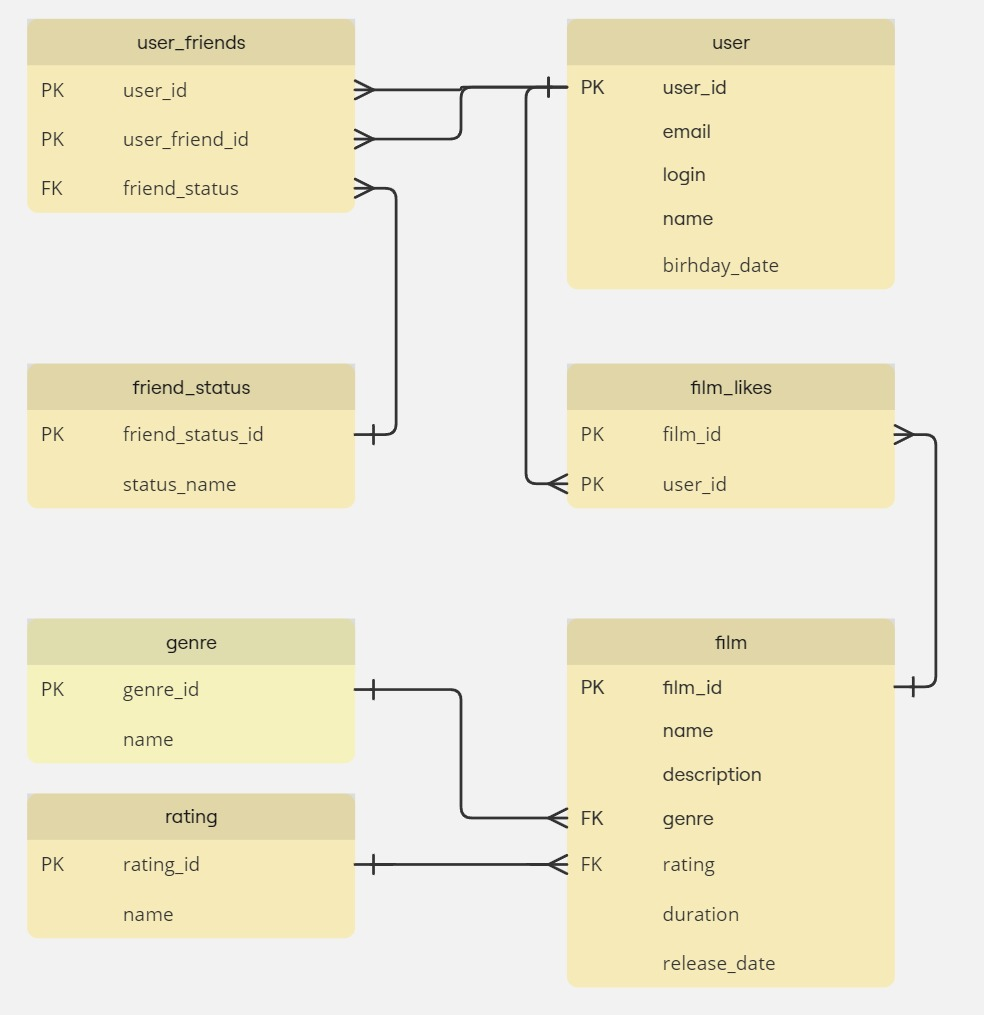
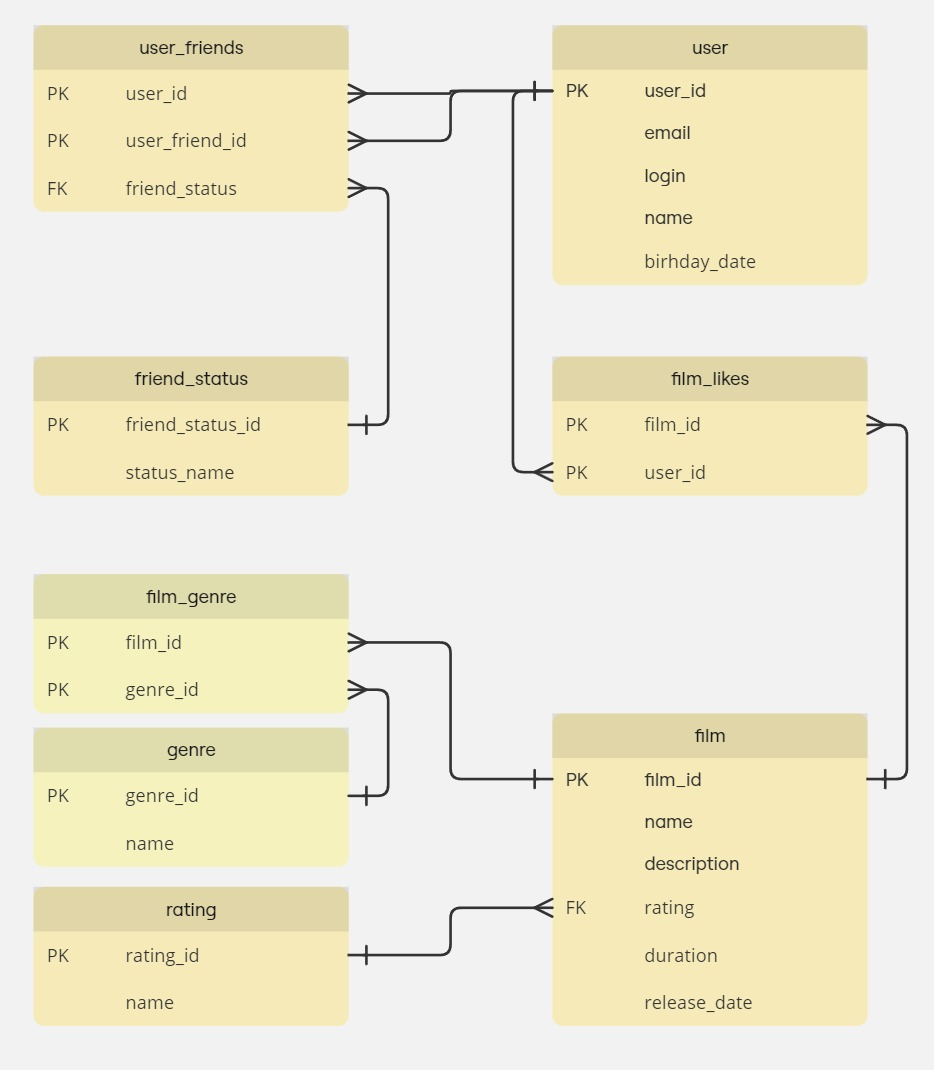
fix: исправлен README и er-диаграмма

Changed region(s): [[0.0, 0.0, 0.9936, 0.9773]]

diff --git a/README.md b/README.md
@@ -53,8 +53,9 @@ JOIN (
 ### Запрос на вывод всех подтвержденных друзей пользователя по логину
 ```sql
 SELECT u.name
-FROM user u
-JOIN user_friends uf ON u.user_id = uf.user_friend_id
-JOIN user danijke ON uf.user_id = danijke.user_id
-WHERE danijke.login = 'danijke';
+FROM user_friends uf
+JOIN user u ON u.user_id = uf.user_friend_id
+JOIN friend_status fs ON uf.friend_status = fs.friend_status_id
+WHERE uf.user_id = (SELECT user_id FROM user WHERE login = 'danijke')
+  AND fs.status_name = 'confirmed';
 ```
